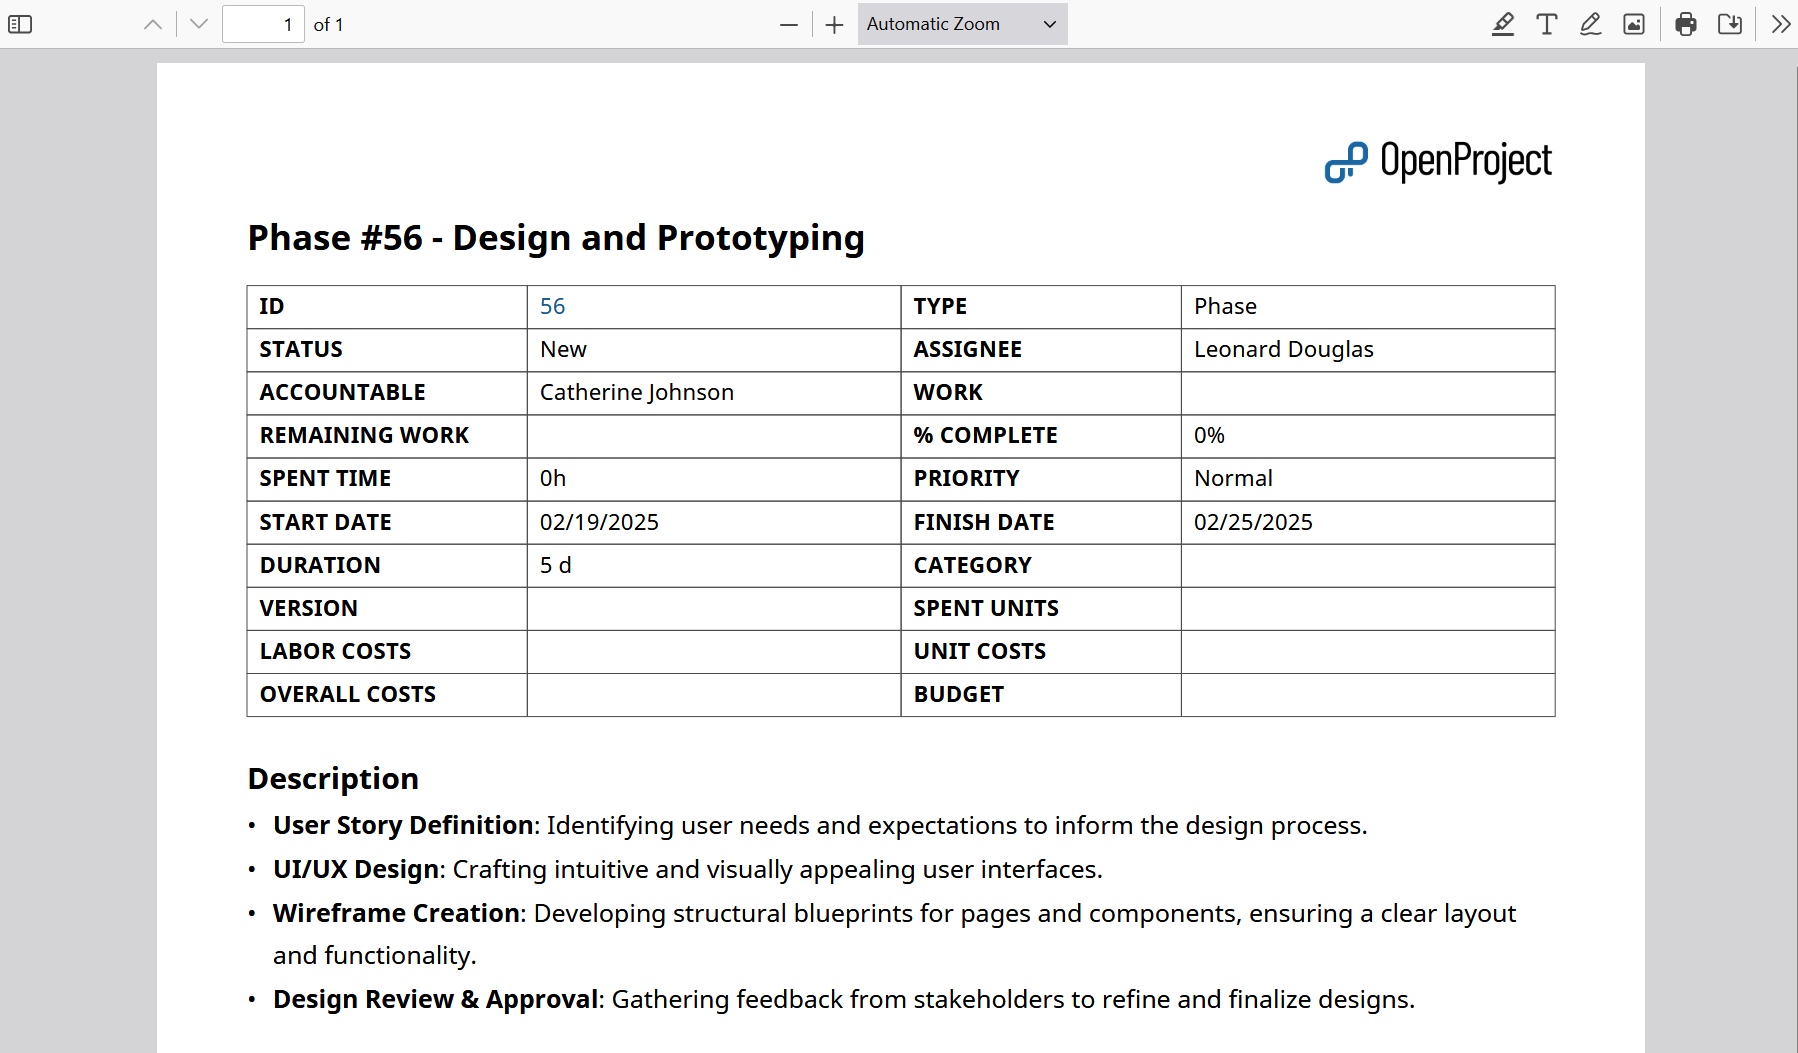
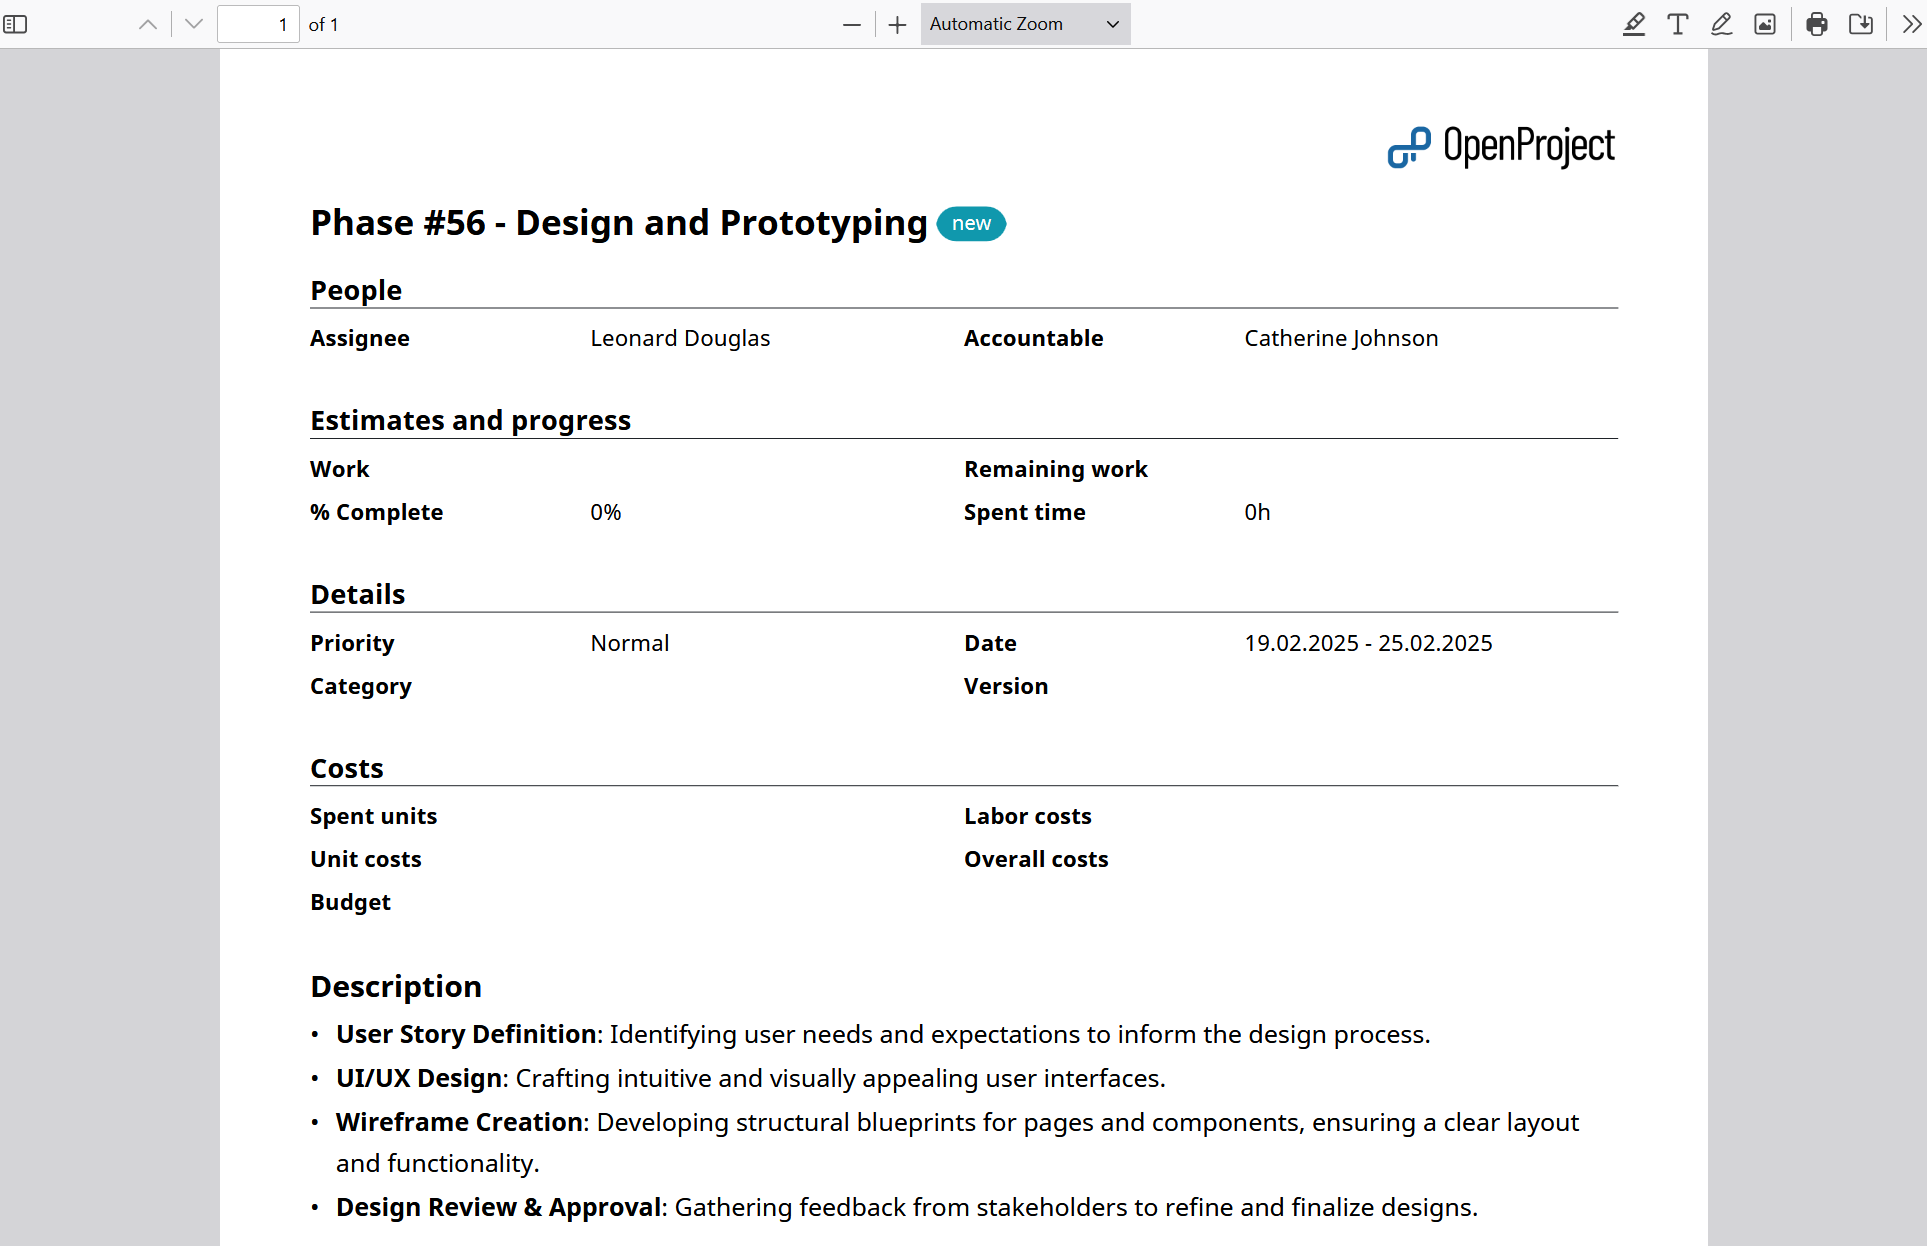
[#62773] PDF export of a single work package follows work package form configuration including related wp tables  https://community.openproject.org/work_packages/62773
[#62773] PDF export of a single work package follows work package form configuration including related wp tables

https://community.openproject.org/work_packages/62773

diff --git a/docs/user-guide/work-packages/exporting/README.md b/docs/user-guide/work-packages/exporting/README.md
@@ -181,13 +181,17 @@ If you select **Generate PDF**, a modal will open, where you can adjust the foll
   - If *Attributes and description* template is selected, the project name will be suggested for the footer. This text will be placed at the center of the footer. 
   - If *Contract* template is selected, the work package subject will be suggested as the footer text. This text will be placed at the right corner of the footer.
   
-  
+- **Page orientation**, which allows selecting *Portrait* or *Landscape* layout of the pages in the PDF.  
 
 ![PDF generation modal for export of single work packages in OpenProject](openproject_user_guide_work_package_export_pdf_modal.png)
 
 Click the **Download** button to generate the PDF export. 
 
-![Example of a single work package PDF export in OpenProject](openproject-user-guide-single-pdf-export.png)
+> [!NOTE]
+>
+> Layout of the PDF export follows the [work package configuration form](../../../system-admin-guide/manage-work-packages/work-package-types/#work-package-form-configuration-enterprise-add-on) defined for specific work package types. 
+
+![Example of a single work package PDF export in OpenProject](opEnproject-user-guide-single-pdf-export.png)
 
 ### Export single work package in Atom format
 
